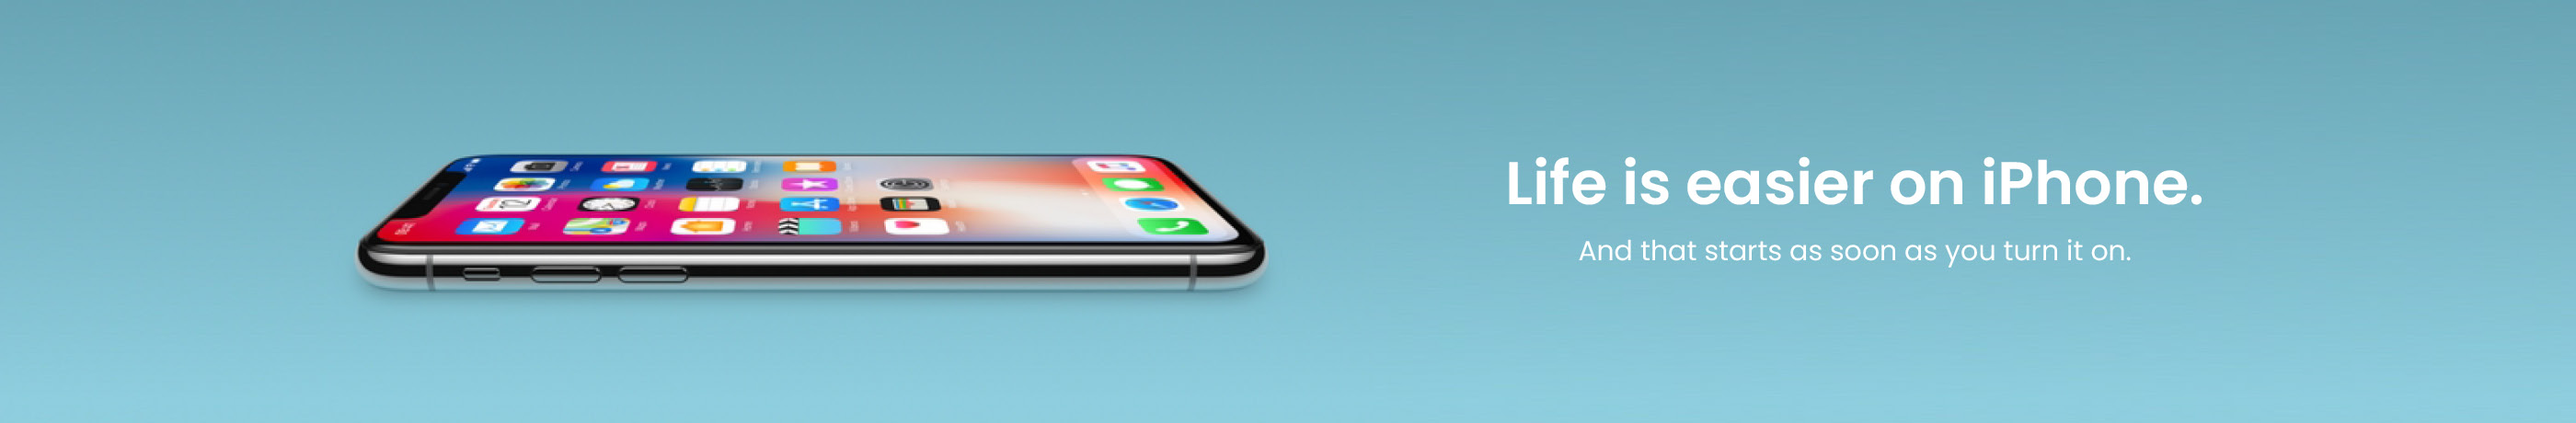
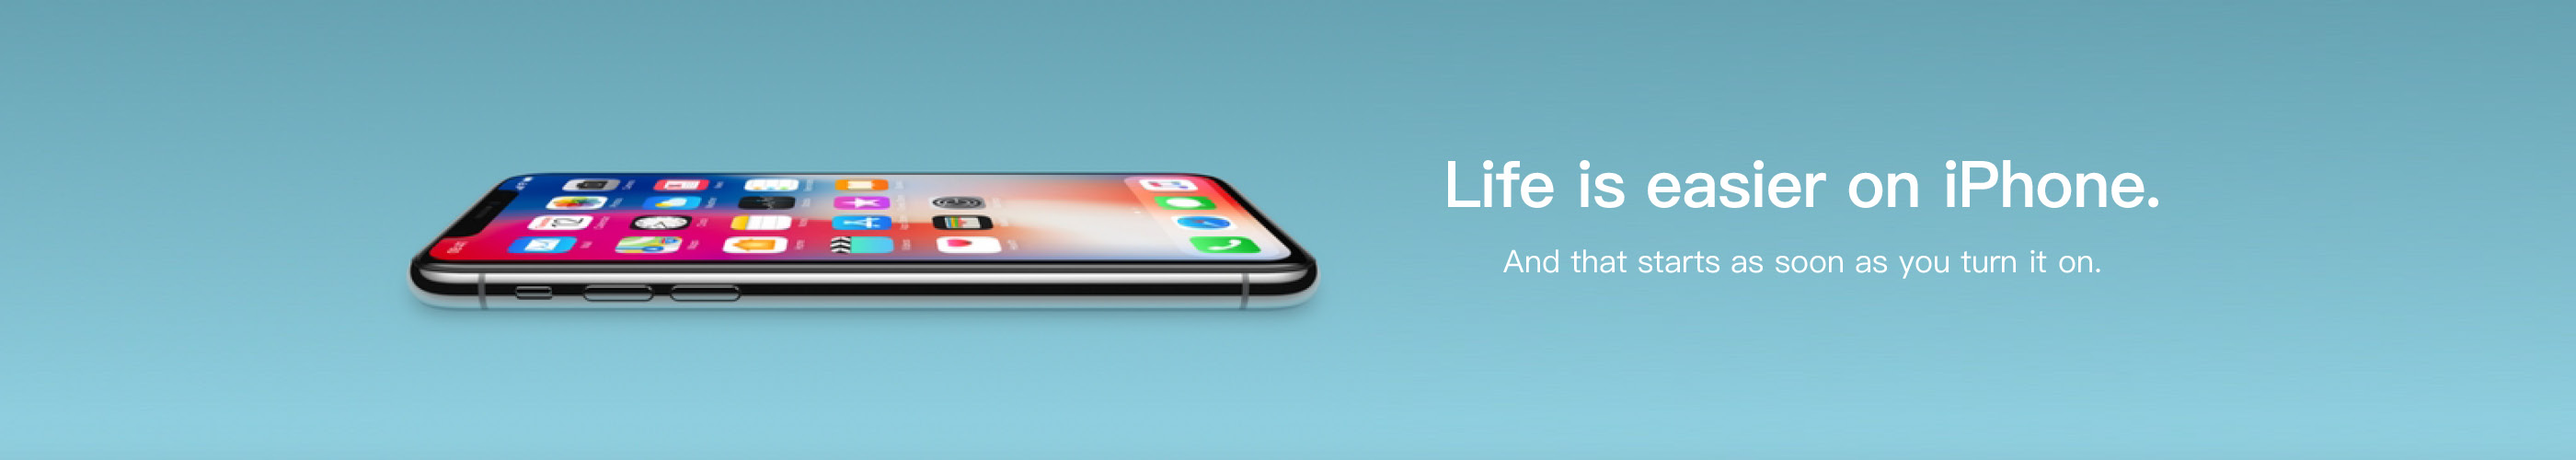
mobile stuff

Changed region(s): [[0.1243, 0.3652, 0.5282, 0.7], [0.5593, 0.3348, 0.87, 0.487], [0.5593, 0.5478, 0.8389, 0.6391]]

diff --git a/src/index.html b/src/index.html
@@ -1,3 +1,4 @@
+<!DOCTYPE html>
 <html lang="de">
 
 <head>
@@ -5,16 +6,20 @@
   <title>NEWWWS</title>
   <meta name="viewport" content="width=device-width, initial-scale=1.0" />
 </head>
-<img class="werbung" src="./assets/images/Werbung_iPhone.jpg" alt="Werbung-iPhone" />
+<div class="mobile-image">
+  <img class="werbung" src="./assets/images/Werbung_iPhone_klein.jpg" alt="iPhone Mobile" />
+</div>
+<div class="desktop-image">
+  <img class="werbung" src="./assets/images/Werbung_iPhone.jpg" alt="iPhone Desktop" />
+</div>
 <div class="headeroben headeroben-nav">
   <img class="Logo" src="./assets/images/Logo.svg" alt="NEWWWS" />
   <img class="headerwetter" src="./assets/images/weather_cs.svg" alt="Wetter" />
   <div class="headerwettertext"> 5° Bewölkt</div>
   <div class="login"> Login </div>
   <div class="dot"></div>
+</div>
 
-</div>
-</div>
 <div class="header">
   <div class="container container--nav">
     <div class="grid-14-rubrik">
@@ -52,6 +57,7 @@
 
       <div class="column-1"></div>
       <!-- News 1 – Gross -->
+
       <div class="column-2 column--line-right-big">
         <img src="./assets/images/01_News/News_1.jpg" alt="Architektur" />
         <h3> FOTOGRAFIE </h3>
@@ -247,54 +253,58 @@
       </div>
       <!-- Covid-19 7 – Klein – ohne Bild -->
       <div class="column-12-covid">
-      <div id="mobile-text">
-      </div>
-      <div id="desktop-text">
-        <h3 class="klein"> BADEN </h3>
-        <h2 class="klein"> Pflegezentrum muss wegen vielen Anste&shy;ckungen dicht machen </h2>
-        <div class="like__wrapper">
-          <div class="like__erscheinung"><strong>Muster Autor</strong> vor 3h</div>
-          <div class="like__button">
-            <div component="like" src="./assets/images/Icon_like.svg" start="58"> </div>
-          </div>
+        <div id="mobile-text">
         </div>
+        <div id="desktop-text">
+          <h3 class="klein"> BADEN </h3>
+          <h2 class="klein"> Pflegezentrum muss wegen vielen Anste&shy;ckungen dicht machen </h2>
+          <div class="like__wrapper">
+            <div class="like__erscheinung"><strong>Muster Autor</strong> vor 3h</div>
+            <div class="like__button">
+              <div component="like" src="./assets/images/Icon_like.svg" start="58"> </div>
+            </div>
+          </div>
 
-        <!-- Trennlinie -->
-        <hr class="basic" />
-        <h3 class="klein"> BRUGG </h3>
-        <h2 class="klein"> In Brugg gibt es neu ein Drive-in für Coronatests </h2>
-        <div class="like__wrapper">
-          <div class="like__erscheinung"><strong>Muster Autor</strong> vor 3h</div>
-          <div class="like__button">
-            <div component="like" src="./assets/images/Icon_like.svg" start="26"> </div>
+          <!-- Trennlinie -->
+          <hr class="basic" />
+          <h3 class="klein"> BRUGG </h3>
+          <h2 class="klein"> In Brugg gibt es neu ein Drive-in für Coronatests </h2>
+          <div class="like__wrapper">
+            <div class="like__erscheinung"><strong>Muster Autor</strong> vor 3h</div>
+            <div class="like__button">
+              <div component="like" src="./assets/images/Icon_like.svg" start="26"> </div>
+            </div>
           </div>
         </div>
-      </div>
-
-      <!-- Covid-19 8 – Gross -->
-      <div class="column-13-covid column--line-left-big">
-        <img src="./assets/images/02_Covid/Covid_5.jpg" alt="Covid-19" />
-        <h3> Corona Hotspot </h3>
-        <h2> Warum hat die Westschweiz trotz strengeren Regeln so viele Infektionen? </h2>
-        <p> Ich bin ein kleiner Blindtext. Und zwar schon so lange ich denken kann. Es war nicht leicht zu verstehen, was es bedeutet, ein blinder Text zu sein: Man ergibt keinen Sinn. Wirklich keinen Sinn. Man wird zusammenhangslos eingeschoben
-          und rumgedreht. </p>
-        <div class="like__wrapper">
-          <div class="like__erscheinung"><strong>Muster Autor</strong> vor 3h</div>
-          <div class="like__button">
-            <div component="like" src="./assets/images/Icon_like.svg" start="105"> </div>
-          </div>
-        </div>
-      </div>
-      <div class="column-14-covid">14</div>
-      <div class="column-15-covid">
-        <img src="./assets/images/02_Covid/Werbung_Nikon.jpg" alt="Adobe" /></div>
 </div>
-
-        <div class="rubrik">
-          <hr />
-          <h4> Design </h4>
+        <!-- Covid-19 8 – Gross -->
+        <div class="column-13-covid column--line-left-big">
+          <img src="./assets/images/02_Covid/Covid_5.jpg" alt="Covid-19" />
+          <h3> Corona Hotspot </h3>
+          <h2> Warum hat die Westschweiz trotz strengeren Regeln so viele Infektionen? </h2>
+          <p> Ich bin ein kleiner Blindtext. Und zwar schon so lange ich denken kann. Es war nicht leicht zu verstehen, was es bedeutet, ein blinder Text zu sein: Man ergibt keinen Sinn. Wirklich keinen Sinn. Man wird zusammenhangslos eingeschoben
+            und rumgedreht. </p>
+          <div class="like__wrapper">
+            <div class="like__erscheinung"><strong>Muster Autor</strong> vor 3h</div>
+            <div class="like__button">
+              <div component="like" src="./assets/images/Icon_like.svg" start="105"> </div>
+            </div>
+          </div>
         </div>
+        <div class="column-14-covid">14</div>
+        <div class="column-15-covid">
+          <img src="./assets/images/02_Covid/Werbung_Nikon.jpg" alt="Adobe" /></div>
       </div>
+
+      <div class="grid-14-between">
+        <div class="row-1-between"></div>
+      <div class="row-2-between">
+        <hr />
+        <h4> Design </h4>
+      </div>
+      <div class="row-3-between"></div>
+    </div>
+
 
     <!-- Design Bereich -->
     <div class="grid-14-design">
@@ -497,7 +507,7 @@
       <!-- Werbung -->
       <div class="column-5-meist">
         <div class="desktop-image">
-        <img src="./assets/images/04_Meistgelesen/Werbung_Sketch.jpg" alt="Sketch Desktop" />
+          <img src="./assets/images/04_Meistgelesen/Werbung_Sketch.jpg" alt="Sketch Desktop" />
         </div>
         <div class="mobile-image">
           <img src="./assets/images/04_Meistgelesen/Werbung_Sketch_klein.jpg" alt="Sketch Mobile" />
@@ -506,9 +516,6 @@
     </div>
   </div>
 
-
-
-  </div>
 
   <div class="footer">
     <div class="footer-1">
@@ -520,12 +527,14 @@
         <a class="footer__item" href="#b">Kontakt</a>
         <a class="footer__item" href="#c">AGB</a>
         <a class="footer__item" href="#d">Datenschutz</a>
+      </nav>
     </div>
+
     <div class="footer-3">
       <p class="copyright"> © SfGZ | IAD19 | Dominique Willi </p>
     </div>
-
   </div>
+
   <!-- page content end -->
 </body>
 

diff --git a/src/components/fonts.scss b/src/components/fonts.scss
@@ -7,6 +7,8 @@ h2 {
   line-height: 1.4;
   margin-bottom: 0.7rem;
   margin-top: 0;
+  margin-left: 1.2rem;
+  margin-right: 1.2rem;
 
   @include media(m) {
     font-size: 18px;
@@ -19,6 +21,9 @@ h2 {
     padding-bottom: 0;
     color: black;
     text-decoration: none;
+    margin-left: 0;
+    margin-right: 0;
+
   }
 }
 
@@ -33,6 +38,8 @@ h2.klein {
   line-height: 1.4;
   margin-bottom: 0.7rem;
   margin-top: 0;
+  margin-left: 0;
+  margin-right: 0;
 
   @include media(m) {
     font-size: 16px;
@@ -74,12 +81,16 @@ h3 {
   color: $blue;
   margin-top: 0;
   margin-bottom: 0.2rem;
+  margin-left: 1.2rem;
+  margin-right: 1.2rem;
 
   @include media(m) {
     font-size: 12px;
   }
   @include media(l) {
     font-size: 13px;
+    margin-left: 0;
+    margin-right: 0;
   }
 }
 
@@ -93,6 +104,8 @@ h3.klein {
   color: #41C2E8;
   margin-bottom: 0.2rem;
   margin-top: 0;
+  margin-left: 0;
+  margin-right: 0;
 
   @include media(m) {
     font-size: 11px;

diff --git a/src/components/p.scss b/src/components/p.scss
@@ -6,6 +6,8 @@ p {
   line-height: 1.5;
   margin-top: 0;
   margin-bottom: 0.8rem;
+  margin-left: 1.2rem;
+  margin-right: 1.2rem;
 
 
   @include media(m) {
@@ -16,6 +18,9 @@ p {
   @include media(l) {
     font-size: 18px;
     font-weight: 400;
+    margin-left: 0;
+    margin-right: 0;
+
   }
 }
 
@@ -36,5 +41,5 @@ p.klein {
     font-size: 17px;
     font-weight: 400;
   }
-  
+
 }

diff --git a/src/components/Like/styles.scss b/src/components/Like/styles.scss
@@ -15,7 +15,6 @@ $blue: #41C2E8;
   color: $grey;
   bottom: 0;
   align-self: flex-end;
-  margin: 0;
 }
 
 .like__erscheinung {
@@ -60,8 +59,7 @@ strong {
   line-height: 1.6;
   margin-bottom: 1.5rem;
   float: left;
-  margin: 0;
-
+  margin-left: 1.2rem;
 }
 
 .like__btn {

diff --git a/src/components/grid.scss b/src/components/grid.scss
@@ -95,7 +95,7 @@
 }
 
 
-// News grid
+// Aktuell grid
 .grid-14 {
   display: grid;
   grid-template-columns: repeat(14, 1fr);
